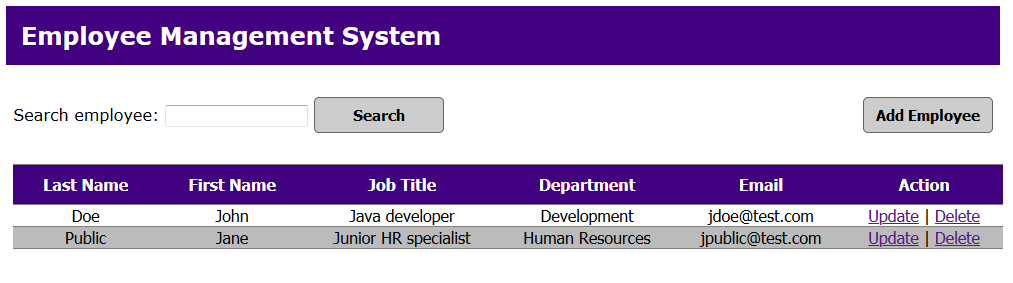
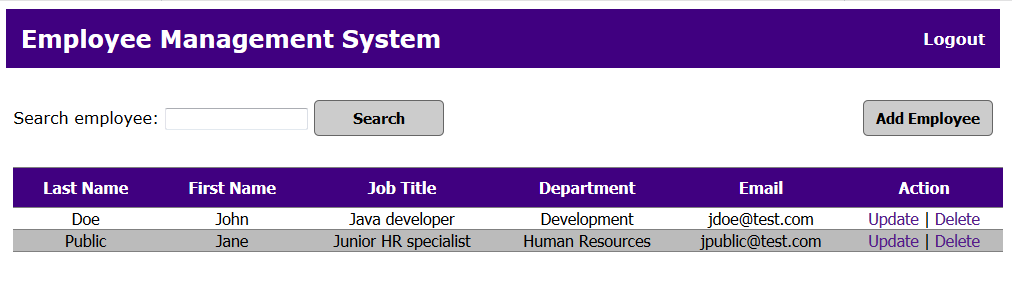
Logout

diff --git a/WebContent/css/style.css b/WebContent/css/style.css
@@ -27,7 +27,7 @@ tr {
 tr:nth-child(even) {background: #FFFFFF}
 tr:nth-child(odd) {background: #BBBBBB}	
  
-#wrapper {width: 100%; margin-top: 0px; }
+#wrapper {width: 100%; margin-top: 0px;}
 #header {width: 75%; background: #400080; margin: 0px auto; padding:15px 0px 15px 15px;}
 #header h2 {width: 100%; margin:auto; color: #FFFFFF;}
 #container {width: 75%; margin: 0px auto;}
@@ -50,4 +50,20 @@ tr:nth-child(odd) {background: #BBBBBB}
 
 .addEmployeeButton:hover {
 	background: #808080;
+}
+
+a {
+	text-decoration: none;
+}
+
+a.logout:link, a.logout:visited {
+	color: #FFFFFF;
+	font-weight: bold;
+	float: right;
+	margin-top: 5px;
+	margin-right: 15px;
+}
+
+a.logout:hover {
+	color: #c0c0c0;
 }
